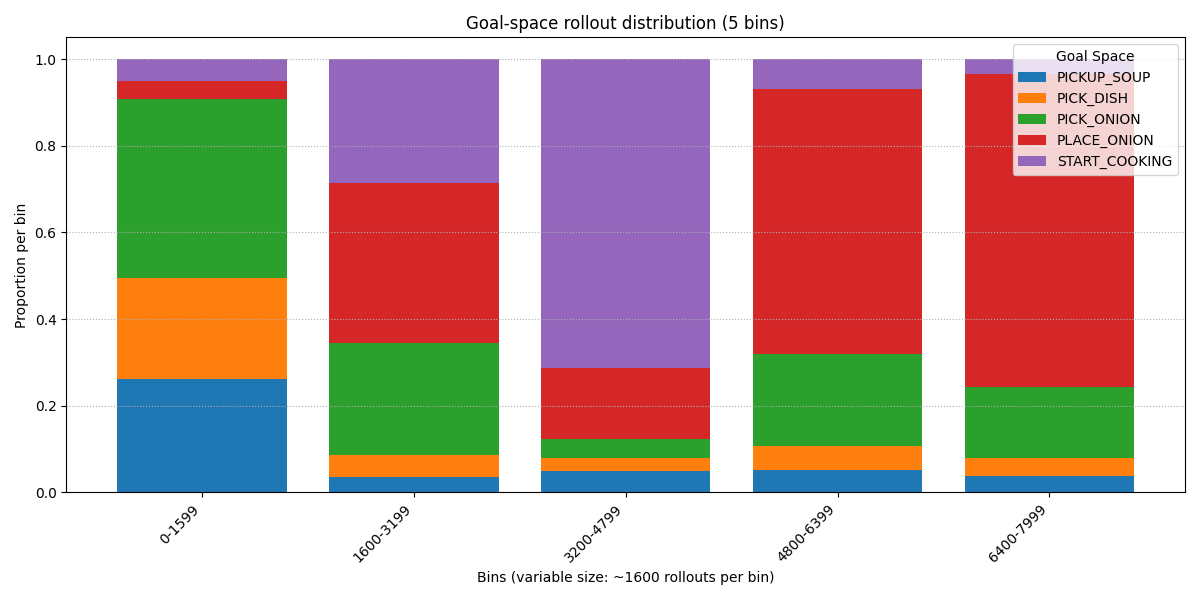
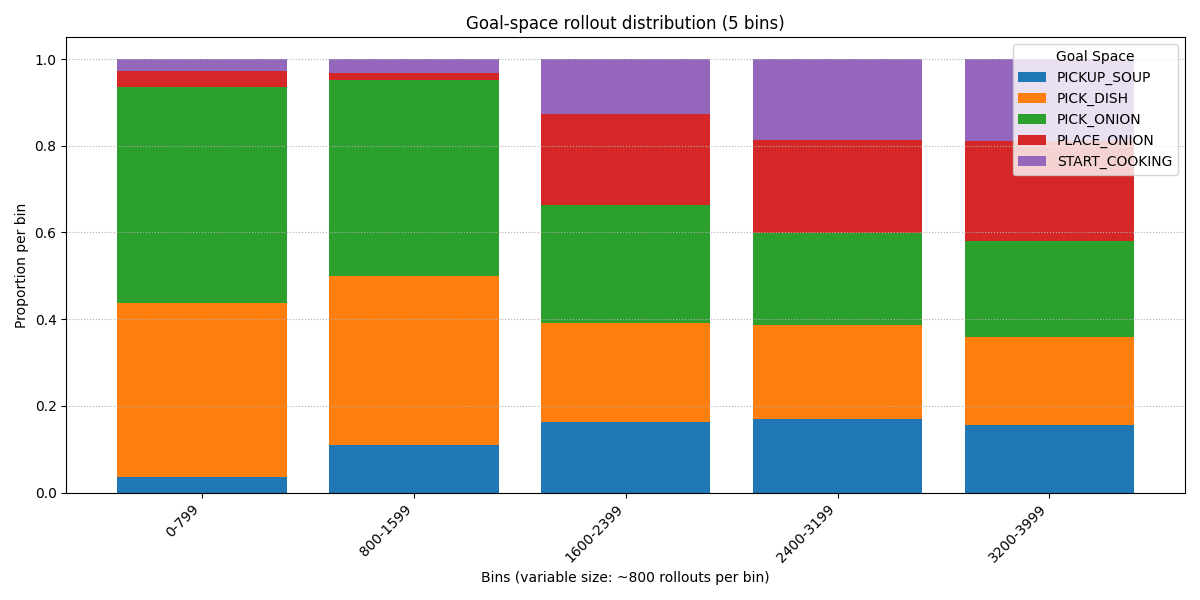
Working on agent collaboration by shared episode reward

diff --git a/imrl_agent_new/overcooked/agent.py b/imrl_agent_new/overcooked/agent.py
@@ -61,11 +61,11 @@ class IMGEPAgent(Agent):
         super().__init__()
 
     # ---------------------------------------------------------------- reset
-    def reset(self, mdp: OvercookedGridworld | None = None):
+    def reset(self, mdp: OvercookedGridworld | None = None, shared_episode: bool = False):
         """Called by Overcooked-AI at episode start."""
         super().reset()
         self.mdp = mdp
-        self.goal_space_id = self.bandit.next_goal()
+        self.goal_space_id = self.bandit.next_goal(shared_episode)
         self.goal_reach_time_step = None
         self.t = 0
         self.rollout_fitness = 0.0
@@ -73,14 +73,15 @@ class IMGEPAgent(Agent):
 
         self.use_pi = (random.random() > 0.8)
 
-        if not self.kb.nearest(
-                self.goal_space_id, 1):
+        if not self.kb.nearest(self.goal_space_id, 1):
             # --- explore: create new policy --
             self.neuro_policy = NeuroPolicy()
         elif self.use_pi:
             # --- exploit: clone best policy ----
-            relevant_policies = self.kb.nearest(
-                self.goal_space_id, 50)
+            relevant_policies = sorted(
+                self.kb.nearest(self.goal_space_id, 50),
+                key=lambda i: i.shared_episode_reward
+            )[:20]
             best_idx = np.argmax([r.fitness for r in relevant_policies]) if relevant_policies else 0
             self.parent_policy = relevant_policies[best_idx]
             theta_vec = self.parent_policy.theta
@@ -96,8 +97,10 @@ class IMGEPAgent(Agent):
                     exploit=True
                 )
             if not relevant_policies:
-                relevant_policies = self.kb.nearest(
-                    self.goal_space_id, 50)
+                relevant_policies = sorted(
+                    self.kb.nearest(self.goal_space_id, 50),
+                    key=lambda i: i.shared_episode_reward
+                )[:20]
 
             self.parent_policy = random.choice(relevant_policies)
             adaptive_noise = 0.1 / (self.parent_policy.intrinsic_reward + 0.1)  # more noise when progress is low
@@ -153,14 +156,13 @@ class IMGEPAgent(Agent):
 
     def return_action(self, action, state):
         self.previous_state = state
-        return action, {}
+        return action
 
     # ---------------------------------------------------------------- finish
-    def finish_rollout(self, final_state: OvercookedState, start_state: OvercookedState):
+    def finish_rollout(self, final_state: OvercookedState, info):
         outcome = extract_outcome(final_state,
                                   final_state.players[self.agent_id],
                                   self.mdp)
-
 
         # intrinsic reward = Δ fitness vs nearest prior experiment
         if len(self.kb) == 0 or not self.parent_policy:
@@ -169,7 +171,8 @@ class IMGEPAgent(Agent):
             nearest = self.kb.nearest(self.goal_space_id, 1, self.use_pi)
             prev_f = np.mean([r.fitness for r in nearest]) if nearest else 0.0
 
-        r_i = max(0.0, self.rollout_fitness - prev_f)
+        fitness_difference = self.rollout_fitness - prev_f
+        r_i = max(0.0, fitness_difference)
 
         if self.use_pi:
             record_amount = 1
@@ -179,21 +182,19 @@ class IMGEPAgent(Agent):
         rollout_idx = self.kb.buffer[-1].rollout_idx + 1 if self.kb.buffer else 0
 
         if self.use_pi:
-            self.bandit.update(self.goal_space_id, r_i)
-
-        # Save the amount of records in the knowledge base based on the r_i
+            self.bandit.update(self.goal_space_id, r_i, self.get_overarching_reward(info))
+        # Save the number of records in the knowledge base based on the r_i
         # This follows the idea of neuro evolution where successful policies are recorded more often and bad policies are recorded less often
         for _ in range(record_amount):
             self.kb.add_record(ExperimentRecord(
                 goal_space=self.goal_space_id,
                 theta=self.neuro_policy.theta,
-                outcome=outcome,
+                shared_episode_reward=self.get_overarching_reward(info),
                 fitness=self.rollout_fitness,
                 intrinsic_reward=r_i,
                 exploit=self.use_pi,
                 rollout_idx=rollout_idx,
             ))
-
 
     def _get_motion_goals(self, high_level_action: HighLevelActions, state: OvercookedState):
         all_counters = self.mdp.get_counter_locations()
@@ -223,3 +224,13 @@ class IMGEPAgent(Agent):
                 # If the agent is waiting, return an empty list to indicate no motion goals
                 return []
         return None
+
+    def get_overarching_reward(self, info) -> float:
+        """Get the overarching reward for the agent."""
+        ep_sparse_r = info['episode']['ep_sparse_r']
+        ep_shaped_r = info['episode']['ep_shaped_r']
+        if ep_sparse_r:
+            return ep_sparse_r
+        elif ep_shaped_r:
+            return ep_shaped_r
+        return 0.0

diff --git a/imrl_agent_new/demo_eval.py b/imrl_agent_new/demo_eval.py
@@ -1,4 +1,5 @@
 import copy
+import random
 
 from imrl_agent_new.VARIABLES import HORIZON
 from imrl_agent_new.helper.create_gif import create_gif
@@ -10,12 +11,20 @@ from overcooked_ai_py.mdp.overcooked_env import OvercookedEnv
 from overcooked_ai_py.mdp.overcooked_mdp import OvercookedGridworld
 
 # ---------------------------------------------------------------- settings
-# 17, 18, 20, 21
-layout_name = layouts[20]  # any layout string
+# 17, 18, 20, 21, 22
+layout_name = layouts[21]  # any layout string
 
 # ---------------------------------------------------------------- env + agents
 mdp: OvercookedGridworld = OvercookedGridworld.from_layout_name(layout_name)
-env: OvercookedEnv = OvercookedEnv.from_mdp(mdp, horizon=HORIZON, info_level=0)
+mlam_params = {
+    "start_orientations": False,
+    "wait_allowed": False,
+    "counter_goals": mdp.terrain_pos_dict["X"],
+    "counter_drop": mdp.terrain_pos_dict["X"],
+    "counter_pickup": mdp.terrain_pos_dict["X"],
+    "same_motion_goals": True,
+}
+env: OvercookedEnv = OvercookedEnv.from_mdp(mdp, horizon=HORIZON, info_level=0, mlam_params=mlam_params)
 
 counter = mdp.get_counter_locations()
 mp = env.mp
@@ -24,16 +33,17 @@ mlam = env.mlam
 max_dist = max_plan_cost(mp)  # longest path in the layout, used for normalization
 
 agents = [IMGEPAgent(env, mdp, agent_id, horizon=HORIZON, max_dist=max_dist) for agent_id in range(2)]
-for ag in agents: ag.kb.load_buffer("kb/buffer_rollouts" + str(ag.agent_id) + ".pkl")
+# for ag in agents: ag.kb.load_buffer("kb/buffer_rollouts" + str(ag.agent_id) + ".pkl")
 # ---------------------------------------------------------------- run one roll-out
 state = env.reset()
 
-ROLL_OUTS = 2000
+ROLL_OUTS = 4000
 
 for roll in range(ROLL_OUTS):
     print(roll)
+    shared_episode = random.random() < 0.2  # randomly decide if this is a shared episode
     env.reset(regen_mdp=True)
-    for ag in agents: ag.reset(mdp)
+    for ag in agents: ag.reset(mdp, shared_episode=shared_episode)
 
     state = env.state
     done = False
@@ -41,15 +51,13 @@ for roll in range(ROLL_OUTS):
     # -------- record trajectory -----------------------------------------
     ep_states = [copy.deepcopy(state)]  # include start state
     while not done:
-        joint = [ag.action(state)[0] for ag in agents]
+        joint = [ag.action(state) for ag in agents]
         state, _, done, info = env.step(joint)
         ep_states.append(copy.deepcopy(state))  # save each next state
 
-    if info['episode']['ep_sparse_r'] > 0:
-        print(f"Rollout {roll} finished with reward: {info['episode']['ep_sparse_r']:.2f}")
     # -------- finish roll-out bookkeeping -------------------------------
     for ag in agents:
-        ag.finish_rollout(state, ep_states[0])
+        ag.finish_rollout(state, info)
 
     if roll == ROLL_OUTS - 1:
         create_gif(ep_states, mdp, roll, True)

diff --git a/imrl_agent_new/visualise/stats/visualise.py b/imrl_agent_new/visualise/stats/visualise.py
@@ -85,6 +85,51 @@ from collections import defaultdict
 import math
 
 
+def plot_shared_episode_reward(records, output_path, smoothing_window, goal_space_colors):
+    shared_reward_by_space = defaultdict(list)
+
+    for rec in records:
+        if rec.exploit:
+            goal_space = getattr(rec, "goal_space", None)
+            label = goal_space
+            shared_reward = getattr(rec, "shared_episode_reward", None)
+            if shared_reward is not None:
+                shared_reward_by_space[label].append((rec.rollout_idx, shared_reward))
+
+    if not shared_reward_by_space:
+        print("❌ No shared_episode_reward data found.")
+        return
+
+    plt.figure(figsize=(11, 6))
+    ax = plt.gca()
+
+    for label in sorted(shared_reward_by_space):
+        # sort by rollout index to ensure lines are smooth
+        reward_sorted = sorted(shared_reward_by_space[label])
+        x_vals, y_vals = zip(*reward_sorted)
+
+        # apply smoothing
+        y_smooth = moving_average(y_vals, smoothing_window)
+
+        # adjust x accordingly
+        x_vals = x_vals[len(x_vals) - len(y_smooth):]
+
+        color = goal_space_colors[label]
+
+        ax.plot(x_vals, y_smooth, color=color, label=f"{label} shared reward")
+
+    ax.set_xlabel("Roll-out index")
+    ax.set_ylabel("Shared Episode Reward (smoothed)")
+    ax.set_title("Shared Episode Reward per goal space")
+    ax.grid(True, which="both", linestyle=":")
+
+    ax.legend(loc="upper left", fontsize=9)
+
+    plt.tight_layout()
+    plt.savefig(output_path)
+    print(f"✅ Saved shared_episode_reward plot to {output_path}")
+
+
 def plot_goalspace_distribution(records, output_path, num_bins, goal_space_colors):
     goal_counts_per_bin = defaultdict(list)
 
@@ -172,6 +217,7 @@ def make_graphs():
             # 3⃣ Plot with consistent colors
             plot_fitness(records, f"visualise/stats/fitness_plot_{ag}.png", 5, goal_space_colors)
             plot_goalspace_distribution(records, f"visualise/stats/goalspace_dist_{ag}.png", 5, goal_space_colors)
+            plot_shared_episode_reward(records, f"visualise/stats/shared_reward_plot_{ag}.png", 5, goal_space_colors)
             get_statistics(path)
         else:
             print(f"❌ Could not find {path}")

diff --git a/imrl_agent_new/core/goal_spaces.py b/imrl_agent_new/core/goal_spaces.py
@@ -143,8 +143,6 @@ def pickup_soup_space(length_of_trajectory: int) -> Goal:
             return 0.2
         return 0.0  # No soup picked up yet
 
-
-
     def success(agent_id: int, state: OvercookedState, previous_state: OvercookedState,
                 mdp: OvercookedGridworld):
         player: PlayerState = state.players[agent_id]
@@ -155,6 +153,26 @@ def pickup_soup_space(length_of_trajectory: int) -> Goal:
 
     return Goal("PICKUP_SOUP", fitness_fn=fitness, success_fn=success)
 
+
+def deliver_soup_space(length_of_trajectory: int) -> Goal:
+    pickup_soup_goal = pickup_soup_space(length_of_trajectory)
+
+    # Goal: deliver a soup to a counter; reward falls as delivery time ↑.
+    # This goalspace is agent independent, so it the agent can collaborate with other agents to deliver soup.
+    def fitness(pick_step: int, state: OvercookedState, previous_state: OvercookedState,
+                agent_id: int, mdp: OvercookedGridworld):
+        gathered_fitness = pickup_soup_goal.fitness(pick_step, state, previous_state, agent_id, mdp)
+        gathered_fitness += pickup_soup_goal.fitness(pick_step, state, previous_state, 1 - agent_id, mdp)
+        return gathered_fitness
+
+    def success(agent_id: int, state: OvercookedState, previous_state: OvercookedState,
+                mdp: OvercookedGridworld):
+        player: PlayerState = state.players[agent_id]
+        held = player.get_object() if player.has_object() else 0
+        mdp.get_serving_locations()
+        return False
+
+    return Goal("DELIVER_SOUP", fitness_fn=fitness, success_fn=success)
 
 def create_goal_space(length_of_trajectory: int) -> dict[str, Goal]:
     """
@@ -167,5 +185,6 @@ def create_goal_space(length_of_trajectory: int) -> dict[str, Goal]:
         "PICK_DISH": pick_object_space(length_of_trajectory, "PICK_DISH", ItemCode.DISH.value),
         "PLACE_ONION": place_object_space(length_of_trajectory, "PLACE_ONION", ItemCode.ONION.value),
         "START_COOKING": start_cooking_space(length_of_trajectory),
-        "PICKUP_SOUP": pickup_soup_space(length_of_trajectory)
+        "PICKUP_SOUP": pickup_soup_space(length_of_trajectory),
+        # "DELIVER_SOUP": deliver_soup_space(length_of_trajectory)
     }

diff --git a/imrl_agent_new/core/goal_policy.py b/imrl_agent_new/core/goal_policy.py
@@ -32,12 +32,17 @@ class GoalSpacePolicy:
 
         # running exponential averages of intrinsic reward
         self.ir_by_space = defaultdict(float, {space_id: 0 for space_id in self.spaces})
+
+        self.shared_reward_by_space = defaultdict(float, {space_id: 0 for space_id in self.spaces})
+
     # ---------------------------------------------------------------- PUBLIC
-    def next_goal(self) -> str:
+    def next_goal(self, shared_episode) -> str:
         """
         Returns (space_id).
-
         """
+        if shared_episode:
+            return max(self.shared_reward_by_space, key=self.shared_reward_by_space.get)
+
         # ---------- choose a space -----------------------------------------
         if random.random() < self.epsilon or not self.ir_by_space:
             space_id = random.choice(list(self.spaces))           # pure explore
@@ -49,9 +54,12 @@ class GoalSpacePolicy:
             space_id = random.choice(best_spaces)
         return space_id
 
-    def update(self, space_id: str, intrinsic_reward: float):
+    def update(self, space_id: str, intrinsic_reward: float, shared_episode_reward: float):
         """
         Update EMA of learning progress for the given goal space.
         """
-        old = self.ir_by_space.get(space_id, intrinsic_reward)
-        self.ir_by_space[space_id] = old + self.alpha * (intrinsic_reward - old)
+        old_ir = self.ir_by_space.get(space_id)
+        old_shared_reward = self.shared_reward_by_space.get(space_id)
+        self.ir_by_space[space_id] = old_ir + self.alpha * (intrinsic_reward - old_ir)
+        self.shared_reward_by_space[space_id] = old_shared_reward + self.alpha * (
+                    shared_episode_reward - old_shared_reward)

diff --git a/imrl_agent_new/core/knowledge_base.py b/imrl_agent_new/core/knowledge_base.py
@@ -14,9 +14,9 @@ class ExperimentRecord:
     # High-level information
     goal_space: str  # goal space ID, e.g., "PLACE_OBJECT", "PICK_OBJECT", etc.
     theta: np.ndarray  # policy params you executed
-    outcome: np.ndarray  # shape = (O,), derived from τ, the outcome of the performed policy
     fitness: float
     intrinsic_reward: float
+    shared_episode_reward: float  # shared reward for the episode, used for multi-agent
     exploit: bool = False  # True if this was an exploit step, False if it was exploration
     rollout_idx: int = 0  # episode number, used to track the order of experiments
 

diff --git a/src/overcooked_ai_py/data/layouts/layouts.py b/src/overcooked_ai_py/data/layouts/layouts.py
@@ -21,6 +21,7 @@ layouts = [
     "inverse_marshmallow_experiment",
     "large_room",
     "separate_room",
+    "collaborate_room",
     "long_cook_time",
     "m_shaped_s",
     "marshmallow_experiment",
